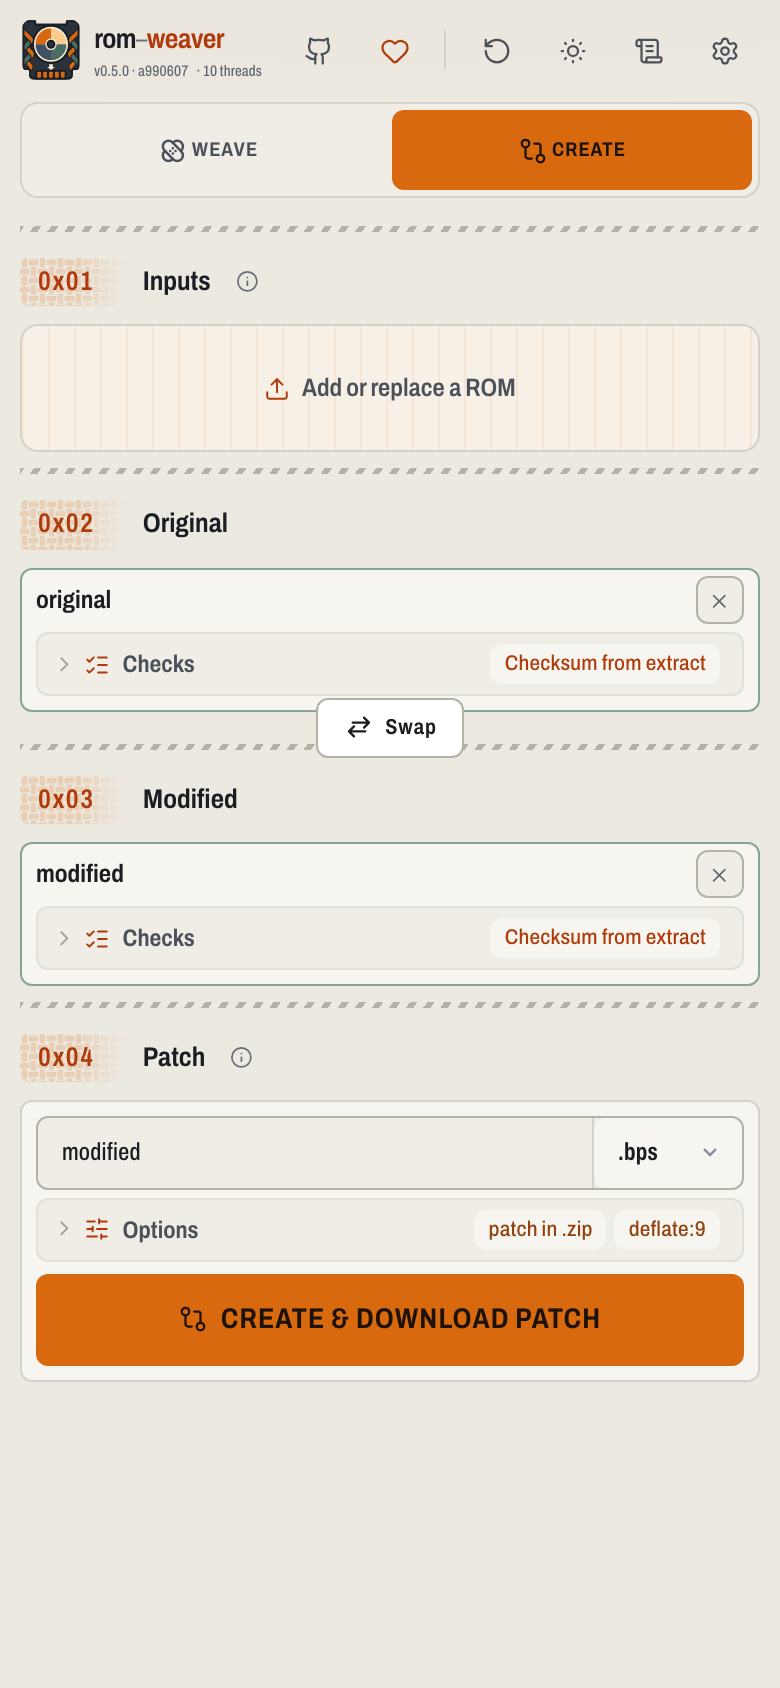
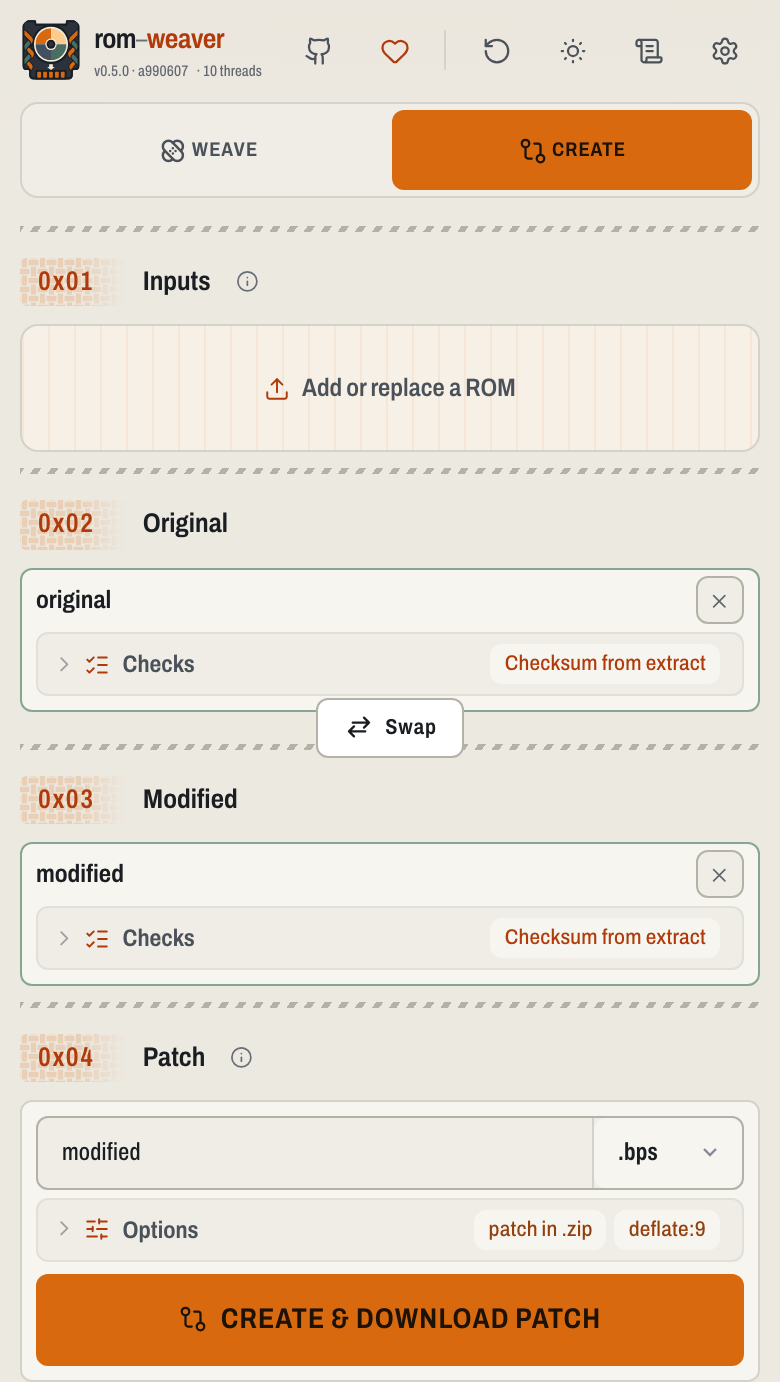
feat(webapp): add create sample assets (#63)

diff --git a/packages/rom-weaver-webapp/src/public/react/create-patch-form.tsx b/packages/rom-weaver-webapp/src/public/react/create-patch-form.tsx
@@ -51,6 +51,11 @@ const finishCreateRoleStaging = (
   clearProgress();
   return true;
 };
+
+const CREATE_SAMPLE_ASSETS = [
+  ["/create-original.bin", "original.bin"],
+  ["/create-modified.bin", "modified.bin"],
+] as const;
 import {
   getCreateSettingsOutputName,
   getDefaultCompressionArchive,
@@ -117,6 +122,8 @@ function CreatePatchForm(props: CreatePatchFormProps) {
   );
   const [createPatchFormatCandidates, setCreatePatchFormatCandidates] =
     useState<CreatePatchFormatCandidateState | null>(null);
+  const [sampleLoading, setSampleLoading] = useState(false);
+  const [sampleError, setSampleError] = useState("");
   const [busy, setBusy] = useState(false);
   const [createQueued, setCreateQueued] = useState(false);
   const [stagingRole, setStagingRole] = useState<"modified" | "original" | null>(null);
@@ -390,6 +397,24 @@ function CreatePatchForm(props: CreatePatchFormProps) {
     const [originalFile, modifiedFile] = routeByOrder(ordered, [!!original, !!modified]);
     if (originalFile) updateOriginal(originalFile);
     if (modifiedFile) updateModified(modifiedFile);
+  };
+  const loadCreateSample = async () => {
+    setSampleLoading(true);
+    setSampleError("");
+    try {
+      const files = await Promise.all(
+        CREATE_SAMPLE_ASSETS.map(async ([url, name]) => {
+          const response = await fetch(url);
+          if (!response.ok) throw new Error(`HTTP ${response.status}`);
+          return new File([await response.blob()], name, { type: "application/octet-stream" });
+        }),
+      );
+      handleUnifiedDrop(files);
+    } catch {
+      setSampleError("Could not load the sample. Try again.");
+    } finally {
+      setSampleLoading(false);
+    }
   };
   const swapCreateSources = () => {
     const workflow = stagedCreateWorkflowRef.current;
@@ -805,6 +830,21 @@ function CreatePatchForm(props: CreatePatchFormProps) {
     dropZone: {
       accept: createFileInputAccept.unifiedRom,
       addLabel: "Add or replace a ROM",
+      afterDropZone: createSourcesActuallyEmpty ? (
+        <div className="first-weave-demo">
+          <span>New here?</span>
+          <button
+            aria-busy={sampleLoading}
+            className="btn ghost slim"
+            disabled={sampleLoading}
+            onClick={() => void loadCreateSample()}
+            type="button"
+          >
+            {sampleLoading ? "Loading sample…" : "Start with sample assets"}
+          </button>
+          {sampleError ? <span role="status">{sampleError}</span> : null}
+        </div>
+      ) : null,
       big: createSourcesEmpty,
       disabled: uploadDisabled,
       heroLabel: "Drop or click to add the original and modified ROMs",